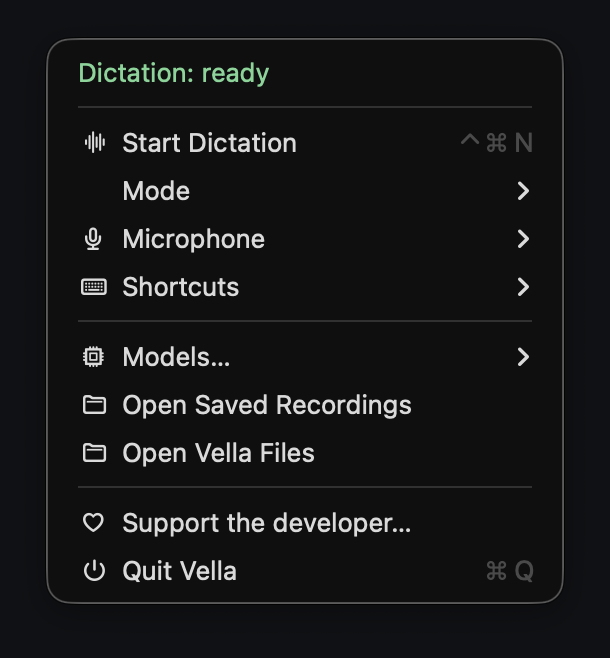
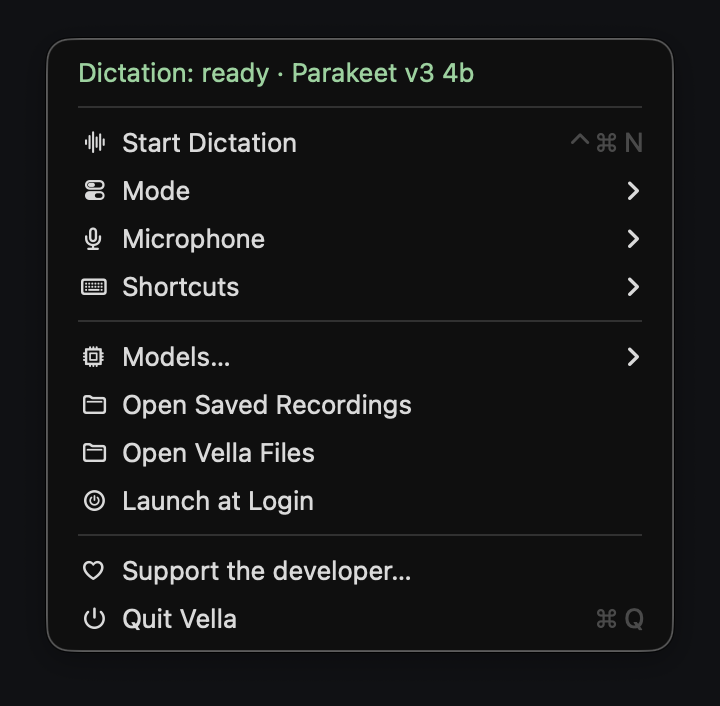
Show the selected model in the menu header; add Launch at Login; settle the model table's active row

diff --git a/Sources/Vella/ModelsMenu.swift b/Sources/Vella/ModelsMenu.swift
@@ -73,7 +73,7 @@ struct ModelTable: View {
     var body: some View {
         VStack(alignment: .leading, spacing: 10) {
             HStack(spacing: 8) {
-                heading("Model", .name, 122)
+                heading("Model", .name, 122, .leading)
                 heading("Q", .quantization, 32)
                 heading("Words", .errorRate, 54)
                 heading("Text", .formattedError, 54)
@@ -102,13 +102,20 @@ struct ModelTable: View {
                                 .help(result.map { library.referenceDescription($0) } ?? "Not measured")
                             Text(result?.runtimePeakMLXBytes.map { String(format: "%.2f GB", Double($0) / 1_000_000_000) } ?? "—").frame(width: 56, alignment: .trailing)
                                 .help("Peak MLX allocation after warmup, not total app or system RAM. Python, native libraries and other apps need additional memory.")
-                            Button(library.busy && library.downloadingID == model.id ? library.progress.map { "\(Int($0 * 100))%" } ?? "…" : active ? "In use" : installed == nil ? (localPath == nil ? "Install" : "Resume") : "Use") {
+                            // The selected row already shows the accent fill and checkmark; a disabled
+                            // pill there reads as broken, so the action column is plain text instead.
+                            if active {
+                                Text("In use").frame(width: 52).opacity(0.75)
+                                    .help("Selected for \(library.mode.title.lowercased())")
+                            } else {
+                            Button(library.busy && library.downloadingID == model.id ? library.progress.map { "\(Int($0 * 100))%" } ?? "…" : installed == nil ? (localPath == nil ? "Install" : "Resume") : "Use") {
                                 library.selectedID = model.id
                                 if installed == nil { library.download() }
                                 else { _ = library.useSelected() }
                             }.buttonStyle(.bordered).controlSize(.small).frame(width: 52)
-                                .disabled(active || library.busy || !library.mayChangeModel() || (installed == nil && model.repository.isEmpty))
+                                .disabled(library.busy || !library.mayChangeModel() || (installed == nil && model.repository.isEmpty))
                                 .help(installed == nil ? "Download \(ByteCountFormatter.string(fromByteCount: model.downloadBytes, countStyle: .file)) from Hugging Face: \(model.repository). License: \(model.license). Selecting for \(library.mode.title.lowercased()) is separate." : "Use this model for your next \(library.mode.title.lowercased())")
+                            }
                             Button { requestDelete(model.id) } label: {
                                 Image(systemName: "trash").frame(width: 20)
                             }.buttonStyle(.plain)
@@ -185,12 +192,12 @@ struct ModelTable: View {
                 }
             }
     }
-    private func heading(_ text: String, _ column: ModelSortColumn, _ width: CGFloat) -> some View {
+    private func heading(_ text: String, _ column: ModelSortColumn, _ width: CGFloat, _ alignment: Alignment = .center) -> some View {
         Button {
             if sortColumn == column { ascending.toggle() }
             else { sortColumn = column; ascending = column != .speed }
         } label: {
-            Text(text).frame(width: width, alignment: .center)
+            Text(text).frame(width: width, alignment: alignment)
                 .overlay(alignment: .trailing) {
                     Image(systemName: ascending ? "arrow.up" : "arrow.down")
                         .font(.system(size: 8, weight: .semibold)).frame(width: 9)

diff --git a/Sources/Vella/UI.swift b/Sources/Vella/UI.swift
@@ -1,6 +1,7 @@
 import AppKit
 import SwiftUI
 import QuartzCore
+import ServiceManagement
 import VellaCore
 
 final class HUDPanel: NSPanel {
@@ -227,7 +228,7 @@ final class HUDPanel: NSPanel {
     }
     func rebuildMenu() {
         menu.removeAllItems()
-        let summary: String
+        var summary: String
         switch model.phase {
         case .idle: summary = model.insertionPermission.granted ? "\(model.mode.title): ready" : "\(model.mode.title): Accessibility required"
         case .preparing: summary = "\(model.mode.title): preparing…"
@@ -236,6 +237,8 @@ final class HUDPanel: NSPanel {
         case .success: summary = model.insertionWasAutomatic ? "\(model.mode.title): paste sent" : "\(model.mode.title): copied—press ⌘V"
         case .failed: summary = "\(model.mode.title): needs attention…"
         }
+        // The loaded model is the fact most worth knowing before opening Models.
+        if let activeModel = modelMenus.library.activeModelLabel { summary += " · \(activeModel)" }
         let needsPermission = !model.insertionPermission.granted
         let header = NSMenuItem(title: summary, action: needsPermission ? #selector(accessibility) : model.phase == .failed ? #selector(showCaptureError) : nil, keyEquivalent: "")
         header.target = self
@@ -252,6 +255,7 @@ final class HUDPanel: NSPanel {
             item("Delete This Saved Recording…", "trash", #selector(deleteSaved))
         }
         let modes = NSMenuItem(title: "Mode", action: nil, keyEquivalent: "")
+        modes.image = NSImage(systemSymbolName: "switch.2", accessibilityDescription: nil)
         let modeMenu = NSMenu(); modeMenu.autoenablesItems = false
         for mode in RecognitionMode.allCases {
             let entry = SettingsMenuItem(title: mode.title, target: self, action: #selector(selectMode(_:)))
@@ -287,6 +291,10 @@ final class HUDPanel: NSPanel {
         menu.addItem(modelMenus.modelItem())
         item("Open Saved Recordings", "folder", #selector(savedRecordings))
         item("Open Vella Files", "folder", #selector(files))
+        let login = NSMenuItem(title: "Launch at Login", action: #selector(toggleLogin), keyEquivalent: "")
+        login.target = self; login.image = NSImage(systemSymbolName: "power.circle", accessibilityDescription: nil)
+        login.state = SMAppService.mainApp.status == .enabled ? .on : .off
+        menu.addItem(login)
         menu.addItem(.separator())
         if let update = releaseUpdates.available {
             item("Update available — \(update.tag)…", "arrow.down.circle", #selector(openReleaseUpdate))
@@ -480,6 +488,12 @@ final class HUDPanel: NSPanel {
         refreshShortcutsMenuInPlace(submenu)
     }
     @objc private func files() { NSWorkspace.shared.open(Backend.support) }
+    @objc private func toggleLogin() {
+        do {
+            if SMAppService.mainApp.status == .enabled { try SMAppService.mainApp.unregister() } else { try SMAppService.mainApp.register() }
+        } catch { NSAlert(error: error).runModal() }
+        rebuildMenu()
+    }
     @objc private func openReleaseUpdate() {
         guard let url = releaseUpdates.available?.url else { return }
         DispatchQueue.main.async {

diff --git a/Sources/Vella/ModelLibrary.swift b/Sources/Vella/ModelLibrary.swift
@@ -76,6 +76,11 @@ import VellaCore
         if let bundled = Bundle.main.resourceURL, FileManager.default.fileExists(atPath: bundled.appendingPathComponent("models.json").path) { return bundled }
         return URL(fileURLWithPath: FileManager.default.currentDirectoryPath).appendingPathComponent("Resources")
     }
+    /// Menu-header label for the selected model, e.g. "Parakeet v3 4b"; nil when none is selected.
+    var activeModelLabel: String? {
+        guard !activeModelPath.isEmpty, let model = models.first(where: { installed[$0.id]?.path == activeModelPath }) else { return nil }
+        return "\(model.name.replacingOccurrences(of: " ASR \u{B7}", with: "")) \(model.quantization.replacingOccurrences(of: "-bit", with: "b"))"
+    }
     var displayedModels: [ModelRecommendation] {
         var rows = models.filter { $0.recommended == true || modelFilePath($0.id) != nil }
         if rows.isEmpty { return models } // Legacy catalogs without recommendation metadata.

diff --git a/Resources/AGENT_GUIDE.md b/Resources/AGENT_GUIDE.md
@@ -6,7 +6,7 @@ Read this when a user wants an additional model, quantization, benchmark, or a c
 
 Preserve the established native menu-bar interface and one-command source installer. Their small scope is intentional, not a reason to redesign either during feature work. Activation customization belongs in a compact Shortcuts submenu immediately below Microphone, using the existing native menu behavior.
 
-Vella is a menu-bar utility, not a desktop application. Models opens one compact table attached to the menu-bar icon. Show the catalog’s five `recommended` variants, plus installed non-recommended/imported models so they remain manageable; retain the full catalog and every quantization in repository results and the sortable explorer. The table has model/quantization rows, sortable Words/Text-error/speed/memory columns, and Install/Use actions. Keep the table free of titles, subheaders, subtitles and taglines; retain only sortable column labels, model rows, actions and necessary live status. Keep hardware out of the visible columns. Select the exact processor, then the nearest tier in the same M-generation, then Apple M5 Max; if none exists, leave metrics unavailable. Preserve the measured processor and suite provenance in metric tooltips. Match the surrounding native menu material, colors and shadow; keep the table background transparent and use system selection/text colors. Keep the scrollbar close to the table/menu edge rather than adding a wide trailing gutter. A custom view inside the native Models menu is appropriate; recursive family → quantization → results → transcript menus are not. Do not expose a user-facing benchmark action. Show curated repository reference measurements using the hardware-selection policy above; never relabel fallback results as local measurements. Keep column labels centered in fixed-width columns; sort indicators must not move their text. The plain clickable footer reads “Want another model? Copy instructions for your agent.” Hover previews the request; clicking copies a link to this local guide and a detected source checkout, then shows a transient Copied overlay without changing table layout. It sends nothing automatically. Use a verified public repository URL once one exists; never invent it. The only persistent visual outside the menu is the non-activating recording HUD. Use compact native dialogs only for permission approval, shortcut capture, file selection and consequential confirmations. Do not introduce a dashboard, main window, Dock icon or second Vella app.
+Vella is a menu-bar utility, not a desktop application. Models opens one compact table attached to the menu-bar icon. Show the catalog’s five `recommended` variants, plus installed non-recommended/imported models so they remain manageable; retain the full catalog and every quantization in repository results and the sortable explorer. The table has one row per model variant with its exact precision label (`4b`, `8b`, `BF16`, `FP16`, `FP32`), sortable Words/Text-error/speed/memory columns, and Install/Use actions; the selected row shows plain “In use” text, not a disabled button. Keep the exact precision labels: BF16 and FP16 are different formats, and an inline bit-width picker or a rounded “16” would hide that. The menu header names the selected model after the state (`Dictation: ready · Parakeet v3 4b`). Keep the table free of titles, subheaders, subtitles and taglines; retain only sortable column labels, model rows, actions and necessary live status. Keep hardware out of the visible columns. Select the exact processor, then the nearest tier in the same M-generation, then Apple M5 Max; if none exists, leave metrics unavailable. Preserve the measured processor and suite provenance in metric tooltips. Match the surrounding native menu material, colors and shadow; keep the table background transparent and use system selection/text colors. Keep the scrollbar close to the table/menu edge rather than adding a wide trailing gutter. A custom view inside the native Models menu is appropriate; recursive family → quantization → results → transcript menus are not. Do not expose a user-facing benchmark action. Show curated repository reference measurements using the hardware-selection policy above; never relabel fallback results as local measurements. Keep column labels centered in fixed-width columns; sort indicators must not move their text. The plain clickable footer reads “Want another model? Copy instructions for your agent.” Hover previews the request; clicking copies a link to this local guide and a detected source checkout, then shows a transient Copied overlay without changing table layout. It sends nothing automatically. Use a verified public repository URL once one exists; never invent it. The only persistent visual outside the menu is the non-activating recording HUD. Use compact native dialogs only for permission approval, shortcut capture, file selection and consequential confirmations. Do not introduce a dashboard, main window, Dock icon or second Vella app.
 
 ## Repository presentation
 
@@ -24,7 +24,7 @@ Accessibility prompting is first-setup-only. Check actual macOS trust silently o
 
 Configuration and results live in `~/Library/Application Support/Vella/`. `config.json` selects Vella’s isolated Python environment and model; `models-installed.json` maps catalog IDs to local weights. Keep local paths, signing identities, credentials and personal recordings outside source control. Read current values before changing them. `config.previous.json` is the UI’s rollback copy for explicit model selection.
 
-Everyday menu entries do not include Configure Backend, a permanent Enable Automatic Insertion control, or a benchmark launcher. Automatic insertion is the normal behavior; if macOS denies permission, the contextual status can open Settings on an explicit click. Backend configuration remains in local files and setup documentation.
+Everyday menu order is fixed: status header, primary action, Mode, Microphone, Shortcuts, Models…, Open Saved Recordings, Open Vella Files, Launch at Login, Support, Quit ⌘Q; every row carries an SF Symbol. Everyday menu entries do not include Configure Backend, a permanent Enable Automatic Insertion control, or a benchmark launcher. Automatic insertion is the normal behavior; if macOS denies permission, the contextual status can open Settings on an explicit click. Backend configuration remains in local files and setup documentation.
 
 ## Standalone runtime
 

diff --git a/README.md b/README.md
@@ -66,7 +66,7 @@ Vella checks for a newer stable release after use, at most once per calendar day
 Choose **Mode**, then open **Models** to install and select a model for that mode. Streaming needs a supported Streaming model; **Nemotron 8-bit** is the starting choice.
 
 <p align="center">
-  <img src="docs/images/menu-current.png" alt="Current Vella menu with Shortcuts directly below Microphone" width="304">
+  <img src="docs/images/menu-current.png" alt="Current Vella menu: status with the selected model, then Mode, Microphone and Shortcuts" width="360">
   <img src="docs/images/shortcuts-current.png" alt="Shortcuts menu with Toggle, Hold to Talk, Tap or Hold, key chords, modifier-only and mouse-button options" width="254">
 </p>
 
